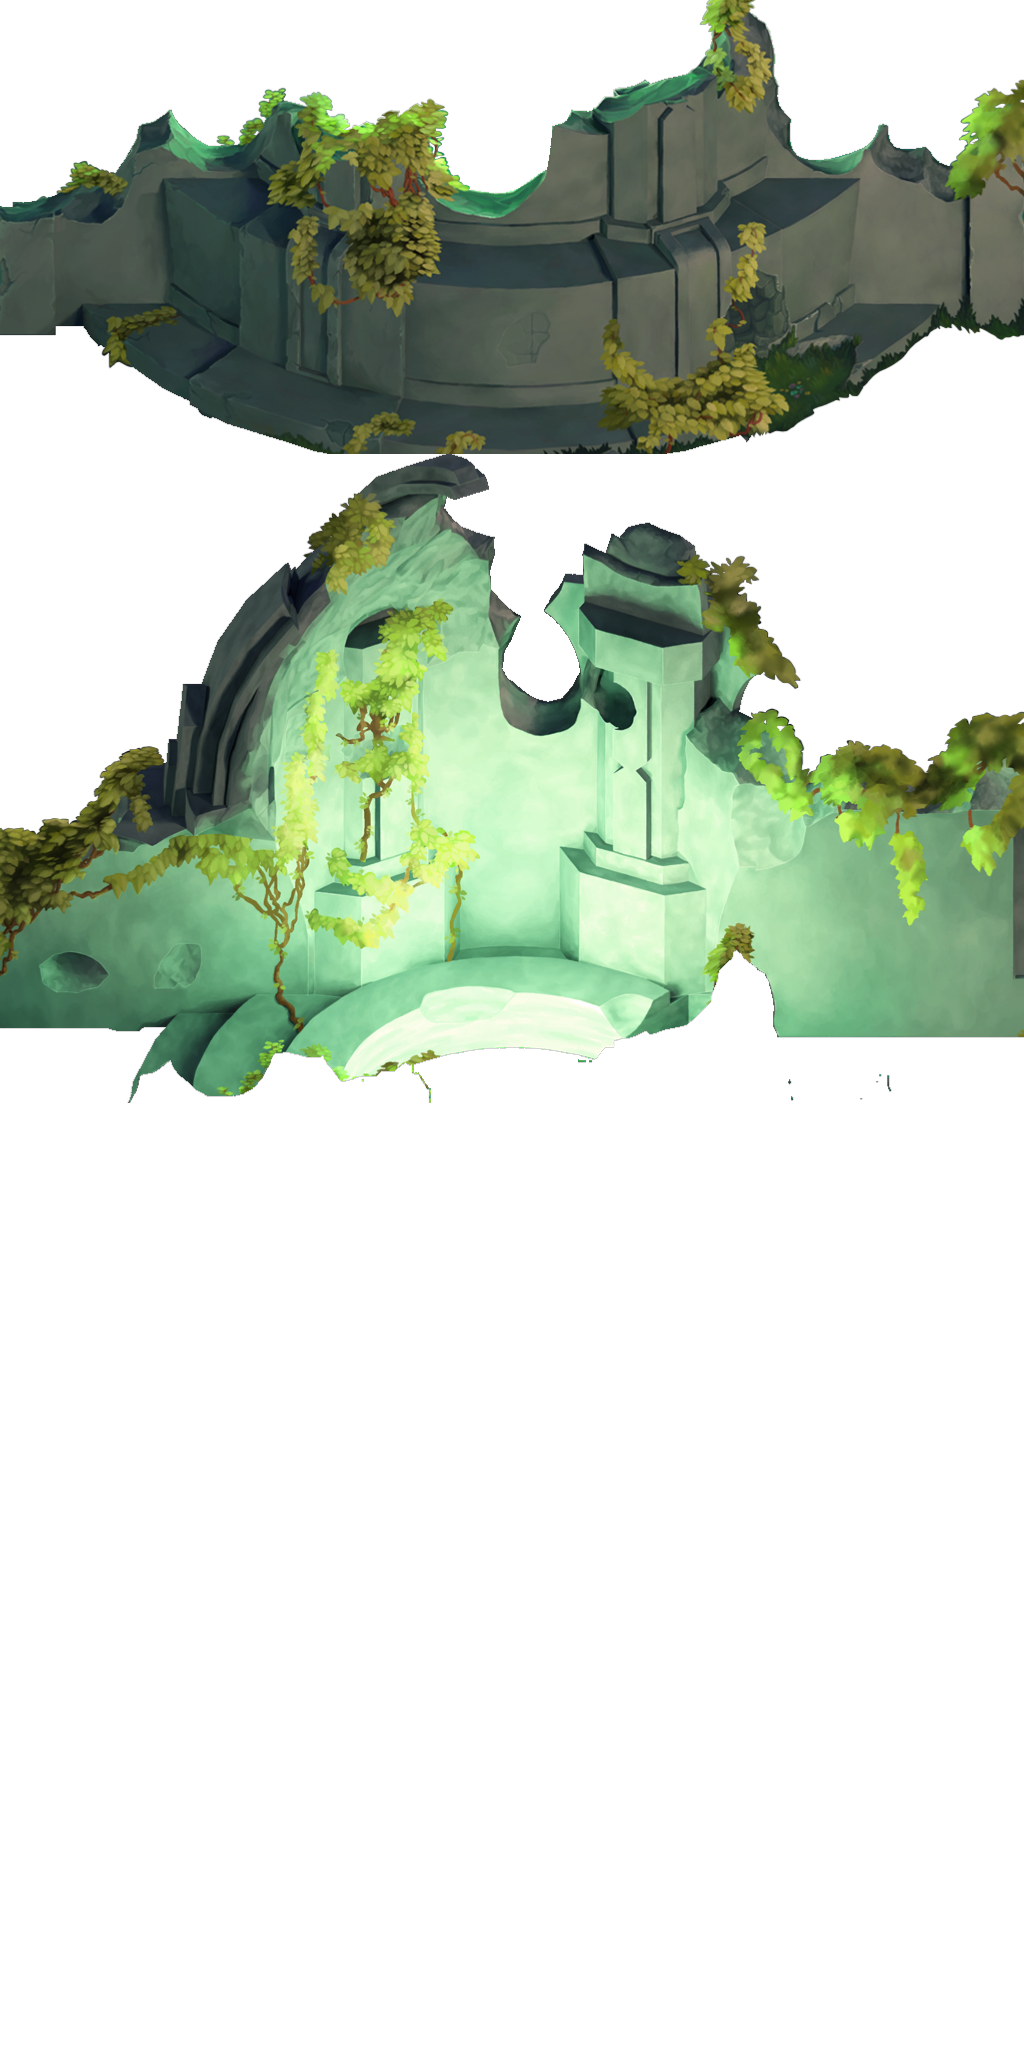
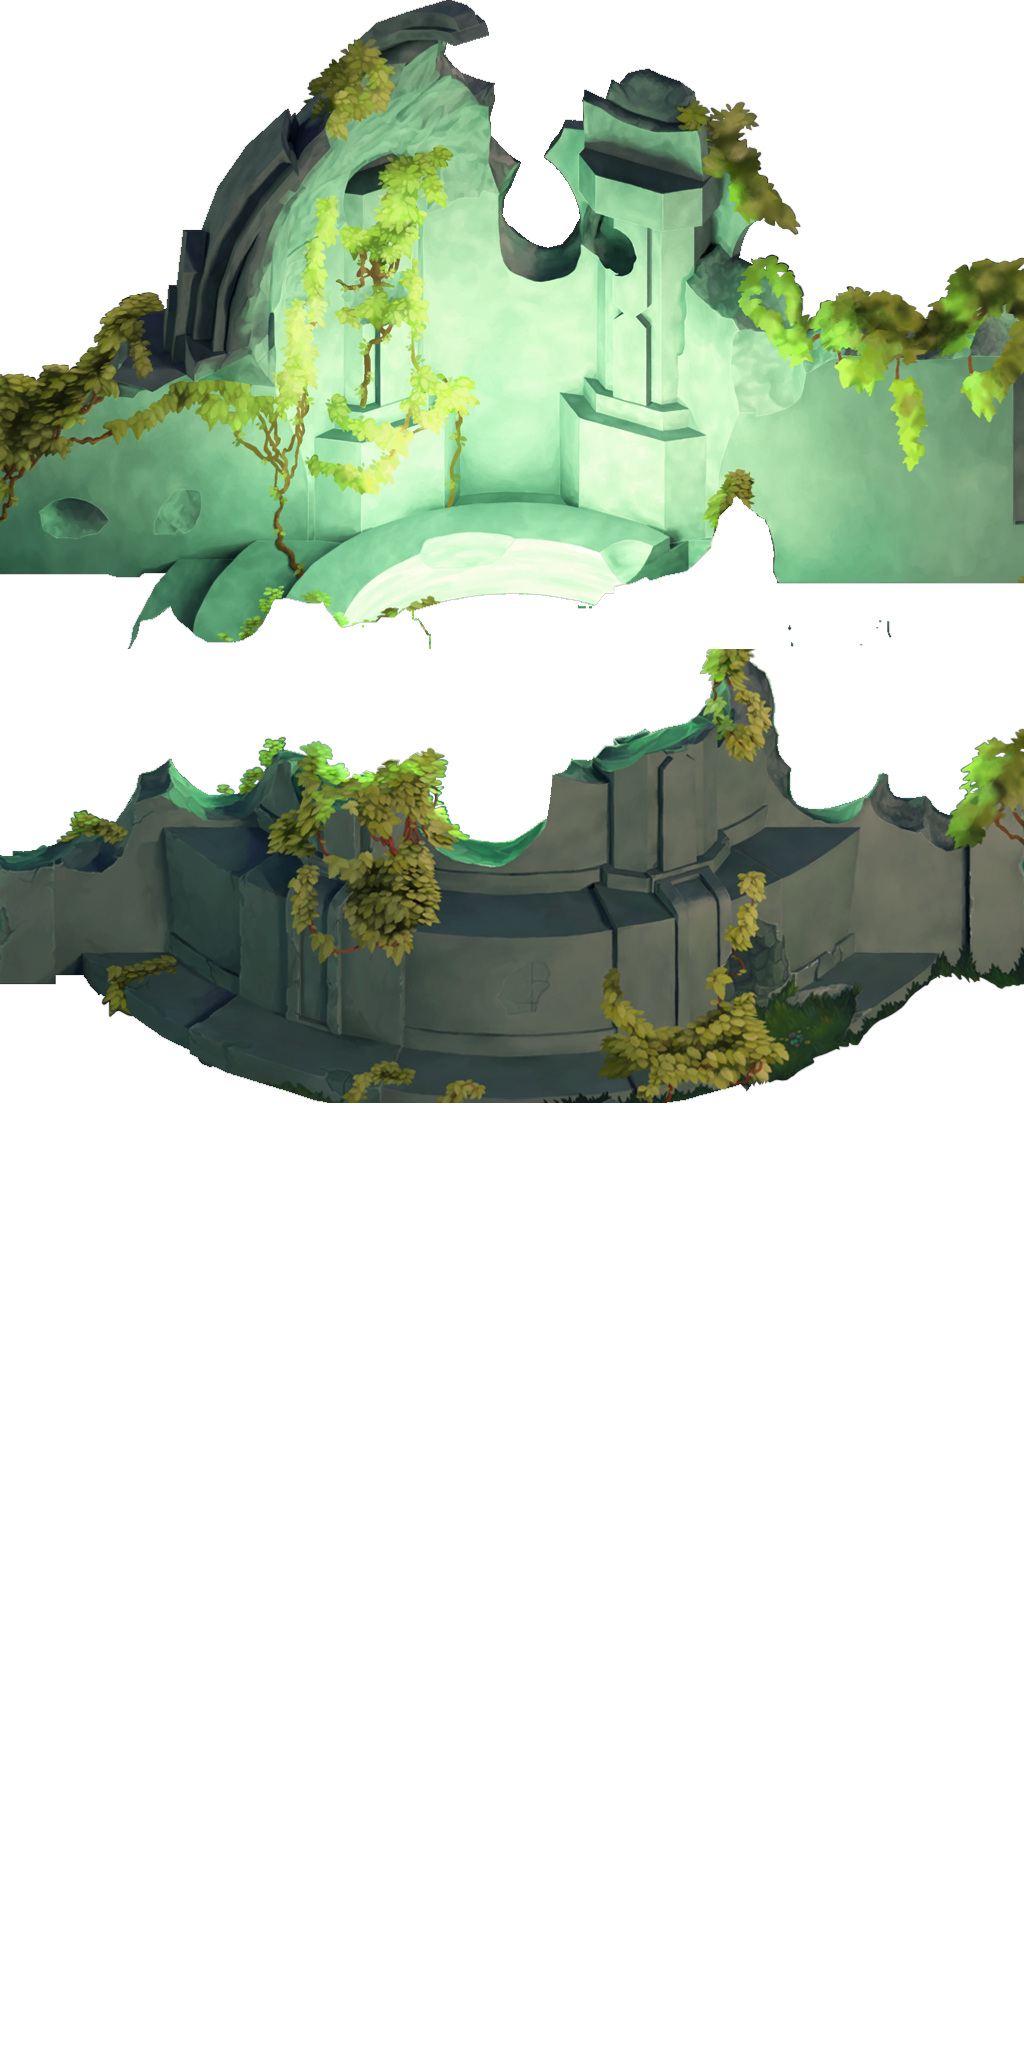
Updating texture packing logic.

diff --git a/Source/MV/Render/texturePacker.cpp b/Source/MV/Render/texturePacker.cpp
@@ -49,7 +49,82 @@ namespace MV{
 		return false;
 	}
 
+	class ContainerComparer {
+	public:
+		ContainerComparer(const BoxAABB<int>& a_container, const Size<int> & a_maximumExtent, const Size<int>& a_shape, const MV::Size<int> &a_currentExtent, const MV::Size<int> &a_currentPower2Extent) :
+			ourContainer(a_container),
+			spaceLeft(a_container.size().area() - a_shape.area()) {
+			auto newExtent = toSize(a_container.minPoint) + a_shape;
+			isValid = a_maximumExtent.contains(newExtent) && a_container.size().contains(a_shape);
+
+			if (isValid) {
+				requiresExpansion = !a_currentExtent.contains(newExtent);
+				requiresSquareExpansion = !a_currentPower2Extent.contains(newExtent);
+
+				expandsMaxDimension = requiresExpansion &&
+					((a_currentExtent.width < a_currentExtent.height && newExtent.height > a_currentExtent.height) ||
+						(a_currentExtent.width > a_currentExtent.height && newExtent.width > a_currentExtent.width));
+			}
+		}
+
+		bool valid() const {
+			return isValid;
+		}
+
+		BoxAABB<int> container() const {
+			return ourContainer;
+		}
+
+		bool operator<(const ContainerComparer& a_rhs) const {
+			if (!requiresSquareExpansion && a_rhs.requiresSquareExpansion) {
+				return true;
+			}
+			if (!expandsMaxDimension && a_rhs.expandsMaxDimension) {
+				return true;
+			}
+			if (!requiresExpansion && a_rhs.requiresExpansion) {
+				return true;
+			}
+			if (requiresSquareExpansion && !a_rhs.requiresSquareExpansion) {
+				return false;
+			}
+			if (expandsMaxDimension && !a_rhs.expandsMaxDimension) {
+				return false;
+			}
+			if (requiresExpansion && !a_rhs.requiresExpansion) {
+				return false;
+			}
+			return spaceLeft < a_rhs.spaceLeft;
+		}
+	private:
+		BoxAABB<int> ourContainer;
+		int spaceLeft = std::numeric_limits<int>::max();
+		bool requiresExpansion = true;
+		bool requiresSquareExpansion = true;
+		bool expandsMaxDimension = true;
+		bool isValid = false;
+	};
+
 	BoxAABB<int> TexturePack::positionShape(const Size<int> &a_shape) {
+		int squarePower2Size = MV::roundUpPowerOfTwo(std::max(contentExtent.width, contentExtent.height));
+		const MV::Size<int> squarePower2ContentExtent{ squarePower2Size, squarePower2Size };
+
+		std::vector<ContainerComparer> comparers;
+		for (auto&& container : containers) {
+			ContainerComparer comparer(container, maximumExtent, a_shape, contentExtent, squarePower2ContentExtent);
+			if (comparer.valid()) {
+				MV::insertSorted(comparers, comparer);
+			}
+		}
+
+		if (comparers.empty()) {
+			BoxAABB<int> emptyShape;
+			emptyShape.minPoint.x = -1;
+			return emptyShape;
+		} else {
+			return { comparers.front().container().minPoint, a_shape };
+		}
+		/*
 		BoxAABB<int> bestShape;
 		bestShape.minPoint.x = -1;
 
@@ -58,8 +133,6 @@ namespace MV{
 		bool bestRequiresExpansion = true;
 		bool bestRequiresSquareExpansion = true;
 
-		int squarePower2Size = MV::roundUpPowerOfTwo(std::max(contentExtent.width, contentExtent.height));
-		const MV::Size<int> squarePower2ContentExtent { squarePower2Size, squarePower2Size };
 
 		for(auto container = containers.begin(); container != containers.end(); ++container){
 			auto spaceLeft = container->size().area() - a_shape.area(); //goofy but intentional overflow.
@@ -67,9 +140,9 @@ namespace MV{
 			bool requiresExpansion = !contentExtent.contains(newExtent);
 			bool requiresSquareExpansion = !squarePower2ContentExtent.contains(newExtent);
 			bool expansionCondition = 
-				(bestRequiresExpansion && (spaceLeft < bestSpaceLeft || !requiresExpansion)) ||
 				(bestRequiresSquareExpansion && (spaceLeft < bestSpaceLeft || !requiresSquareExpansion)) ||
-				(!bestRequiresExpansion && !requiresExpansion && spaceLeft < bestSpaceLeft) ||
+				//(bestRequiresExpansion && (spaceLeft < bestSpaceLeft || !requiresExpansion)) ||
+				//(!bestRequiresExpansion && !requiresExpansion && spaceLeft < bestSpaceLeft) ||
 				(!bestRequiresSquareExpansion && !requiresSquareExpansion && spaceLeft < bestSpaceLeft);
 
 			if (maximumExtent.contains(newExtent) && expansionCondition && container->size().contains(a_shape)) {
@@ -83,7 +156,7 @@ namespace MV{
 			}
 		}
 
-		return bestShape;
+		return bestShape;*/
 	}
 
 	std::string TexturePack::print() const{

diff --git a/Source/MV/Render/sharedTextures.cpp b/Source/MV/Render/sharedTextures.cpp
@@ -46,7 +46,6 @@ namespace MV {
 	}
 
 	void SharedTextures::files(const std::string &a_rootDirectory, bool a_repeat, bool a_pixel) {
-		std::vector<std::string> validExtensions{ ".jpg", ".png", ".bmp", ".tga", ".gif", ".webp" };
 		path directory(a_rootDirectory);
 		if (exists(directory)) {
 			for (auto&& imagePath = directory_iterator(directory); imagePath != directory_iterator(); ++imagePath) {
@@ -115,30 +114,43 @@ namespace MV {
 		}
 	}
 
-	std::shared_ptr<TexturePack> SharedTextures::assemblePack(const std::string &a_packPath, Draw2D* a_renderer) {
-		auto newPack = pack(path(a_packPath).filename().string(), a_renderer);
-
-		std::vector<std::string> validExtensions{".jpg", ".png", ".bmp", ".tga", ".gif", ".webp"};
-		std::vector<std::string> images;
+	std::vector<std::string> SharedTextures::getImagesInFolder(const std::string &a_packPath) const {
+		std::vector<std::string> imageFiles;
 		for (auto&& imagePath = directory_iterator(path(a_packPath)); imagePath != directory_iterator(); ++imagePath) {
 			if (exists(*imagePath) && is_regular_file(*imagePath)) {
 				std::string lowerCaseImageExtension = imagePath->path().extension().string();
 				toLowerInPlace(lowerCaseImageExtension);
 				if (std::find(validExtensions.begin(), validExtensions.end(), lowerCaseImageExtension) != validExtensions.end()) {
-					images.push_back(imagePath->path().string());
+					imageFiles.push_back(imagePath->path().string());
 				}
 			}
 		}
-		std::sort(images.begin(), images.end());
+		return imageFiles;
+	}
 
-		for(auto&& filePath : images){
+	std::vector<SharedTextures::PackItem> SharedTextures::getSortedPackItems(std::vector<std::string> imagePaths) const {
+		std::vector<PackItem> packItems;
+		for (auto&& filePath : imagePaths) {
 			std::string contents = fileContents(path(filePath).replace_extension("slc").string());
 			std::stringstream stream(contents);
 			BoxAABB<float> sliceBounds;
 			if (stream) {
 				stream >> sliceBounds.minPoint.x >> sliceBounds.minPoint.y >> sliceBounds.maxPoint.x >> sliceBounds.maxPoint.y;
 			}
-			newPack->add(path(filePath).filename().string(), FileTextureDefinition::make(filePath, true, false), sliceBounds);
+			packItems.push_back({ path(filePath).filename().string(), FileTextureDefinition::make(filePath, true, false), sliceBounds });
+		}
+
+		std::sort(packItems.begin(), packItems.end(), std::greater<>());
+		return packItems;
+	}
+
+	std::shared_ptr<TexturePack> SharedTextures::assemblePack(const std::string &a_packPath, Draw2D* a_renderer) {
+		auto newPack = pack(path(a_packPath).filename().string(), a_renderer);
+
+		std::vector<PackItem> packItems = getSortedPackItems(getImagesInFolder(a_packPath));
+
+		for (auto&& packItem : packItems) {
+			newPack->add(packItem.id, packItem.texture, packItem.sliceBounds);
 		}
 
 		auto combinedSavePath = a_packPath;

diff --git a/Source/MV/Render/sharedTextures.h b/Source/MV/Render/sharedTextures.h
@@ -18,6 +18,21 @@ namespace MV {
 	class SharedTextures {
 		friend FileTextureDefinition;
 	public:
+		inline static const std::vector<std::string> validExtensions { ".jpg", ".png", ".bmp", ".tga", ".gif", ".webp" };
+		struct PackItem {
+			std::string id;
+			std::shared_ptr<FileTextureDefinition> texture;
+			BoxAABB<float> sliceBounds;
+
+			bool operator<(const PackItem& a_rhs) const {
+				return texture->size().area() > a_rhs.texture->size().area();
+			}
+
+			bool operator>(const PackItem& a_rhs) const {
+				return texture->size().area() > a_rhs.texture->size().area();
+			}
+		};
+
 		std::shared_ptr<TexturePack> pack(const std::string &a_name);
 		std::shared_ptr<TexturePack> pack(const std::string &a_name, Draw2D* a_renderer);
 		std::shared_ptr<FileTextureDefinition> file(const std::string &a_filename, bool a_repeat = false, bool a_pixel = false);
@@ -71,6 +86,9 @@ namespace MV {
 			return a_script;
 		}
 	private:
+		std::vector<std::string> getImagesInFolder(const std::string& a_packPath) const;
+		std::vector<SharedTextures::PackItem> getSortedPackItems(std::vector<std::string> imagePaths) const;
+
 		std::map<std::string, std::shared_ptr<TexturePack>> texturePacks;
 		std::map<std::string, std::shared_ptr<FileTextureDefinition>> fileDefinitions;
 		std::map<std::string, std::shared_ptr<DynamicTextureDefinition>> dynamicDefinitions;

diff --git a/Source/MV/Render/points.cpp b/Source/MV/Render/points.cpp
@@ -44,6 +44,13 @@ namespace MV {
 		A(static_cast<float>(a_Alpha) / 255.0f) {
 	}
 
+	Color::Color(int64_t a_Red, int64_t a_Green, int64_t a_Blue, int64_t a_Alpha /*= 255*/) :
+		R(static_cast<float>(a_Red) / 255.0f),
+		G(static_cast<float>(a_Green) / 255.0f),
+		B(static_cast<float>(a_Blue) / 255.0f),
+		A(static_cast<float>(a_Alpha) / 255.0f) {
+	}
+
 	Color& Color::operator=( const Color& a_other ){
 		R = a_other.R; G = a_other.G; B = a_other.B; A = a_other.A;
 		return *this;
@@ -118,6 +125,14 @@ namespace MV {
 	}
 
 	Color& Color::set(int a_Red, int a_Green, int a_Blue, int a_Alpha) {
+		R = static_cast<float>(a_Red) / 255.0f;
+		G = static_cast<float>(a_Green) / 255.0f;
+		B = static_cast<float>(a_Blue) / 255.0f;
+		A = static_cast<float>(a_Alpha) / 255.0f;
+		return *this;
+	}
+
+	Color& Color::set(int64_t a_Red, int64_t a_Green, int64_t a_Blue, int64_t a_Alpha) {
 		R = static_cast<float>(a_Red) / 255.0f;
 		G = static_cast<float>(a_Green) / 255.0f;
 		B = static_cast<float>(a_Blue) / 255.0f;

diff --git a/Source/MV/Render/points.h b/Source/MV/Render/points.h
@@ -60,6 +60,7 @@ namespace MV {
 
 		Color(float a_Red, float a_Green, float a_Blue, float a_Alpha = 1.0f);
 		Color(int a_Red, int a_Green, int a_Blue, int a_Alpha = 255);
+		Color(int64_t a_Red, int64_t a_Green, int64_t a_Blue, int64_t a_Alpha = 255);
 
 		~Color(){}
 
@@ -117,6 +118,7 @@ namespace MV {
 		Color& set(uint32_t a_hex, bool a_allowFullAlpha = false); //option to get back a Color&
 		Color& set(float a_Red, float a_Green, float a_Blue, float a_Alpha = 1.0f);
 		Color& set(int a_Red, int a_Green, int a_Blue, int a_Alpha = 255);
+		Color& set(int64_t a_Red, int64_t a_Green, int64_t a_Blue, int64_t a_Alpha = 255);
 		Color& set(HSV a_hsv);
 
 		float R, G, B, A;
